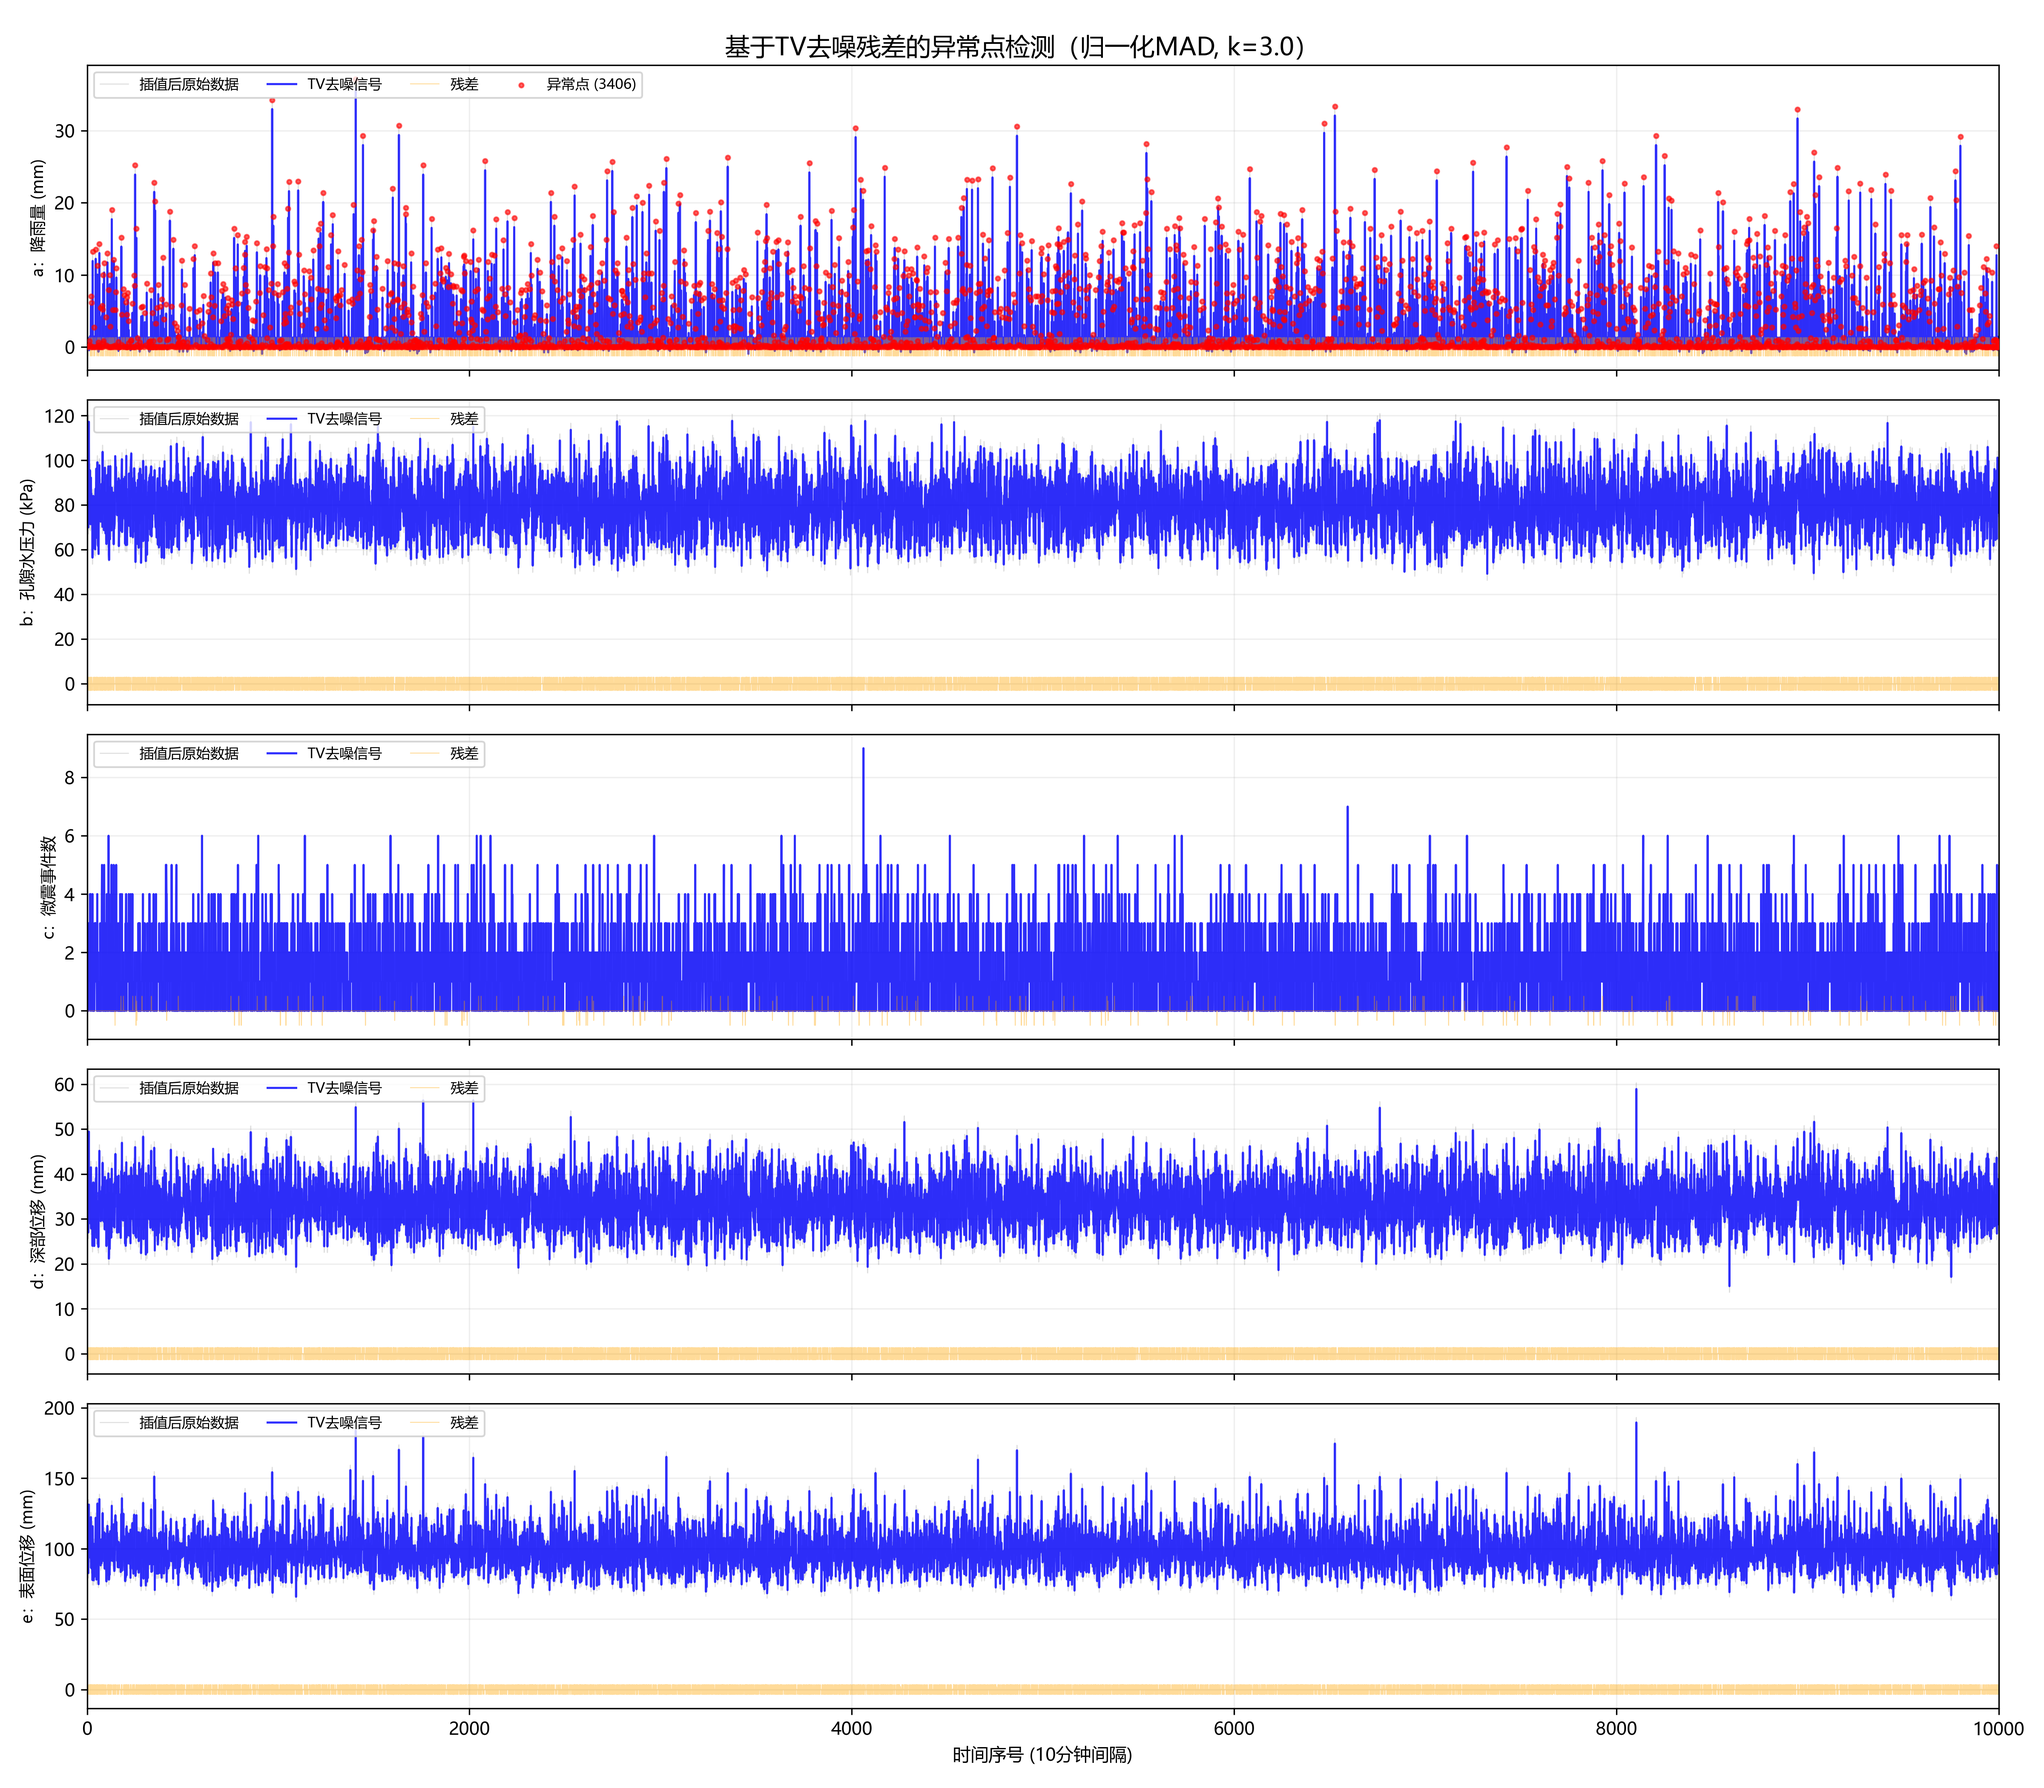
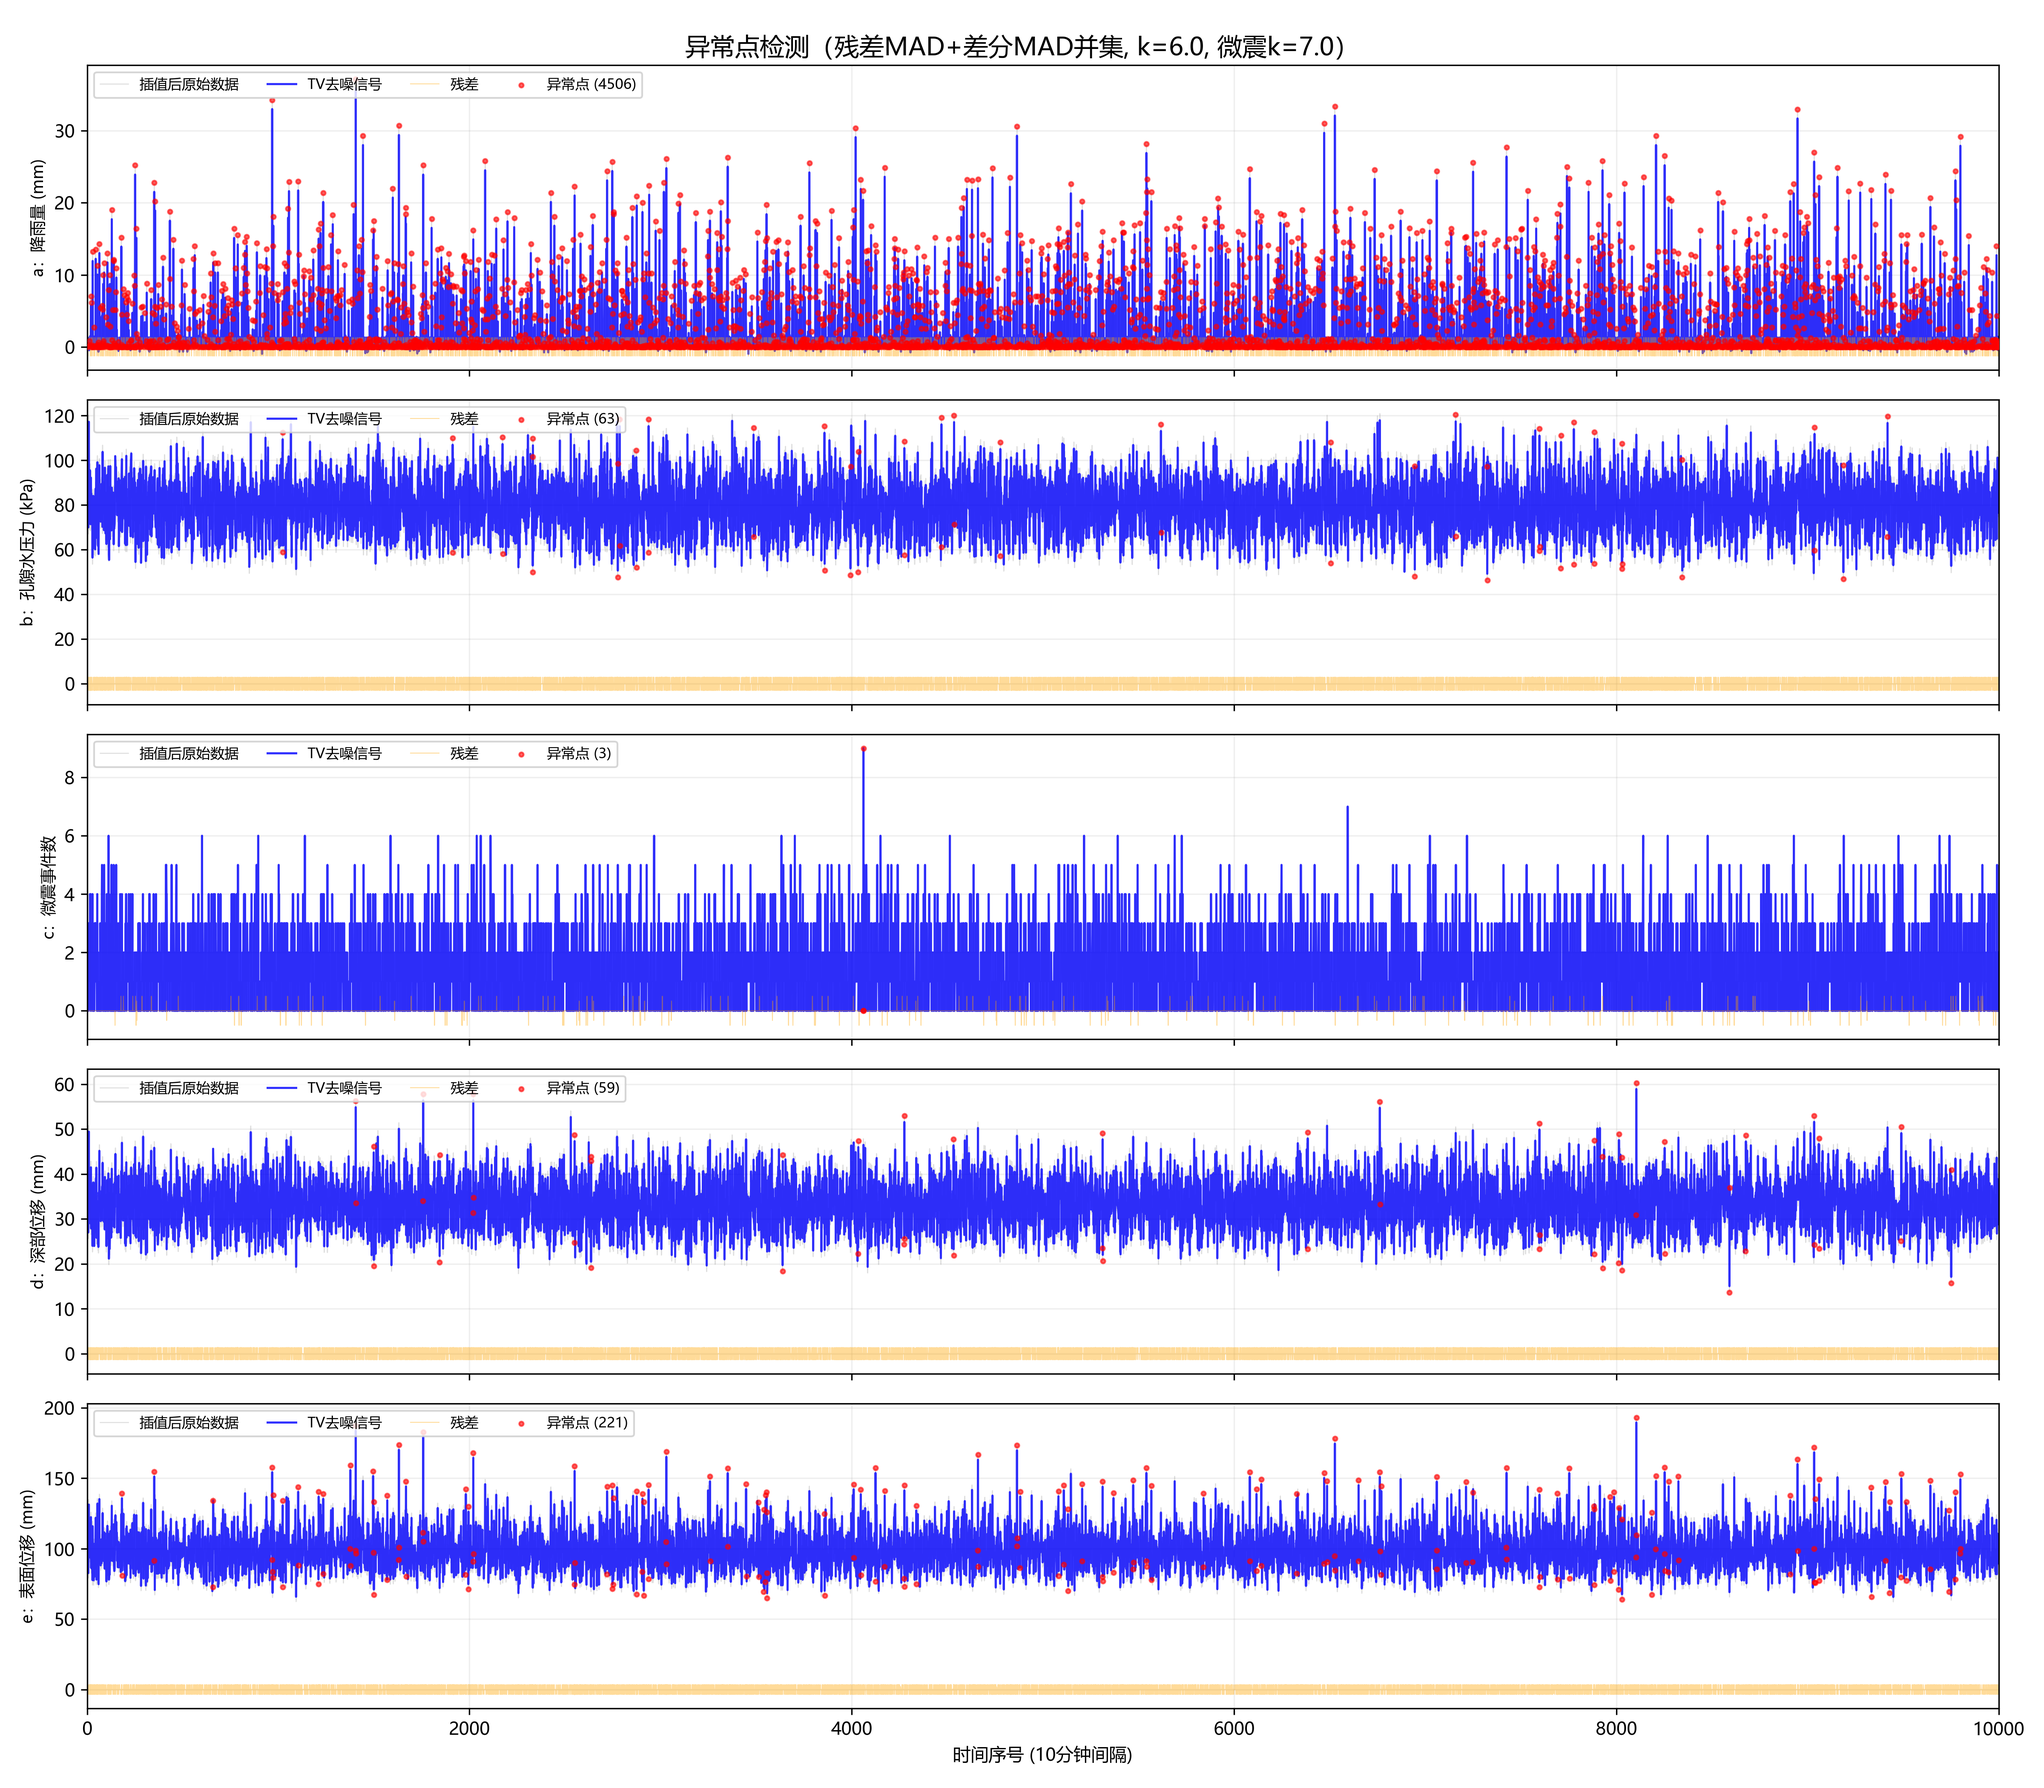
3.2: 提高异常阈值至k=6(微震k=7), 异常率显著降低, 共同异常点从1306降至229

diff --git a/Q3/3.2/3.2.py b/Q3/3.2/3.2.py
@@ -43,7 +43,6 @@ cols = {
     'e': 'e: Surface Displacement (mm)'
 }
 
-# 提取并转为数值，空值变为NaN
 raw_data = {}
 for key, col in cols.items():
     series = pd.to_numeric(df_train[col], errors='coerce')
@@ -57,34 +56,41 @@ for key, series in raw_data.items():
     filled_data[key] = filled.values
 
 # ==================== 4. TV去噪 ====================
-# 【改进1】lambda 按数据标准差缩放，保证平滑力度在所有变量上一致
-# 相对强度 relative_strength: a(降雨量) 脉冲强→大些, c(微震) 计数低→小, 其余适中
 relative_lambda = {'a': 0.08, 'b': 0.06, 'c': 0.04, 'd': 0.06, 'e': 0.06}
 data_std = {key: np.nanstd(raw_data[key]) for key in raw_data}
 print("各变量标准差:", {k: f"{v:.3f}" for k, v in data_std.items()})
 
 denoised_data = {}
 for key, y in filled_data.items():
-    # 实际lambda = 相对强度 × 数据标准差
     lam = relative_lambda[key] * data_std[key]
     y_den = tv_denoise_admm(y, lam=lam, max_iter=200)
     if key == 'c':
         y_den = np.round(y_den).astype(int)
     denoised_data[key] = y_den
 
-# ==================== 改进的异常检测（统一用残差MAD） ====================
-def detect_outliers_by_residual(y_filled, y_clean, k=4.0):
-    """基于残差的MAD异常检测，适用于所有变量"""
-    resid = y_filled - y_clean
-    median = np.median(resid)
-    mad = np.median(np.abs(resid - median))
+# ==================== 5. 异常检测（残差MAD + 差分MAD 取并集，提高阈值） ====================
+def detect_outliers_mad(values, k=6.0):
+    """通用MAD异常检测"""
+    median = np.median(values)
+    mad = np.median(np.abs(values - median))
     if mad == 0:
-        # 极端情况：残差全为0，没有异常
-        return np.zeros(len(resid), dtype=bool)
-    threshold = k * mad
-    return np.abs(resid - median) > threshold
+        return np.zeros(len(values), dtype=bool)
+    return np.abs(values - median) > k * mad
 
-# 存储每个变量的异常标记
+def detect_outliers_by_residual(y_filled, y_clean, k=6.0):
+    """基于残差的MAD异常检测"""
+    resid = y_filled - y_clean
+    return detect_outliers_mad(resid, k=k)
+
+def detect_outliers_by_diff(signal, k=6.0):
+    """基于一阶差分的MAD异常检测——检测跳变"""
+    diff = np.diff(signal)
+    flags_diff = detect_outliers_mad(diff, k=k)
+    flags = np.zeros(len(signal), dtype=bool)
+    flags[:-1] |= flags_diff
+    flags[1:]  |= flags_diff
+    return flags
+
 outlier_flags = {}
 outlier_counts = {}
 total_length = None
@@ -92,9 +98,17 @@ total_length = None
 for key in ['a','b','c','d','e']:
     y_filled = filled_data[key]
     y_clean = denoised_data[key]
-    # 对微震事件数使用稍大的阈值，避免正常波动被标异常
-    k_value = 5.0 if key == 'c' else 4.0
-    flags = detect_outliers_by_residual(y_filled, y_clean, k=k_value)
+
+    # 残差法：检测整体幅值偏差（阈值提高）
+    k_resid = 7.0 if key == 'c' else 6.0
+    flags_resid = detect_outliers_by_residual(y_filled, y_clean, k=k_resid)
+
+    # 差分法：检测局部跳变（阈值提高）
+    k_diff = 7.0 if key == 'c' else 6.0
+    flags_diff = detect_outliers_by_diff(y_clean, k=k_diff)
+
+    # 取并集：两种方法都放宽，但每种方法内阈值提高→最终结果显著减少
+    flags = flags_resid | flags_diff
     outlier_flags[key] = flags
     outlier_counts[key] = int(np.sum(flags))
     total_length = len(flags)
@@ -133,7 +147,7 @@ for t in range(total_length):
         var_str = ''.join(sorted(abnormal_vars))
         common_outliers[t+1] = var_str
 
-# ==================== 8. 输出表3.2 (前20行示例) ====================
+# ==================== 8. 输出表3.2 ====================
 print("\n表3.2 训练集多变量共同异常点变量清单")
 print("-"*50)
 print(f"{'时间点对应编号':<12} {'共同异常点处的异常变量':<10}")
@@ -145,13 +159,12 @@ for i, (idx, vars_) in enumerate(sorted(common_outliers.items())):
 if len(common_outliers) <= 20:
     print(f"共 {len(common_outliers)} 个共同异常点")
 
-# 保存完整表3.2到Excel
 output_path = os.path.join(script_dir, "common_outliers_table3.2.xlsx")
 df_common = pd.DataFrame(list(common_outliers.items()), columns=['Serial No.', 'Common Abnormals'])
 df_common.to_excel(output_path, index=False)
 print(f"\n完整表3.2已保存至 {output_path}")
 
-# ==================== 9. 绘图展示五变量残差与异常点 ====================
+# ==================== 9. 绘图 ====================
 plt.rcParams['font.sans-serif'] = ['Microsoft YaHei', 'SimHei', 'DejaVu Sans']
 plt.rcParams['axes.unicode_minus'] = False
 
@@ -173,12 +186,10 @@ for idx, key in enumerate(['a','b','c','d','e']):
     residuals = raw_filled - clean_signal
     flags = outlier_flags[key]
 
-    # 绘制原始数据、去噪信号、残差
     ax.plot(t, raw_filled, 'gray', alpha=0.25, linewidth=0.6, label='插值后原始数据')
     ax.plot(t, clean_signal, 'b-', linewidth=1.2, alpha=0.8, label='TV去噪信号')
     ax.plot(t, residuals, 'orange', linewidth=0.5, alpha=0.4, label='残差')
 
-    # 用红色散点标记异常点
     outlier_idx = np.where(flags)[0]
     if len(outlier_idx) > 0:
         ax.scatter(outlier_idx, raw_filled[outlier_idx],
@@ -190,7 +201,7 @@ for idx, key in enumerate(['a','b','c','d','e']):
     ax.set_xlim(0, total_length)
 
 axes[-1].set_xlabel('时间序号 (10分钟间隔)')
-plt.suptitle('基于TV去噪残差的异常点检测（归一化MAD, k=3.0）', fontsize=14)
+plt.suptitle(f'异常点检测（残差MAD+差分MAD并集, k=6.0, 微震k=7.0）', fontsize=14)
 plt.tight_layout()
 plot_path = os.path.join(script_dir, "outlier_detection_results.png")
 plt.savefig(plot_path, dpi=300)
